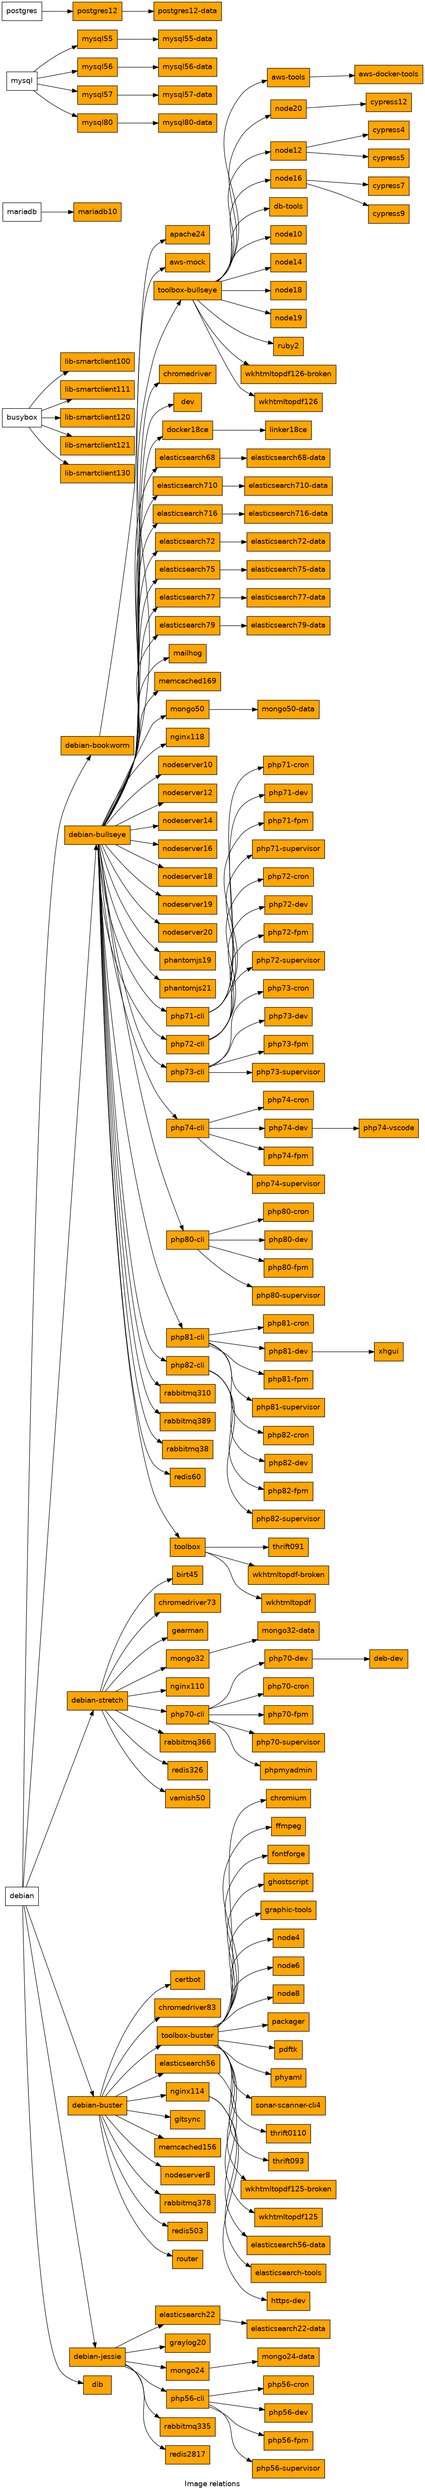
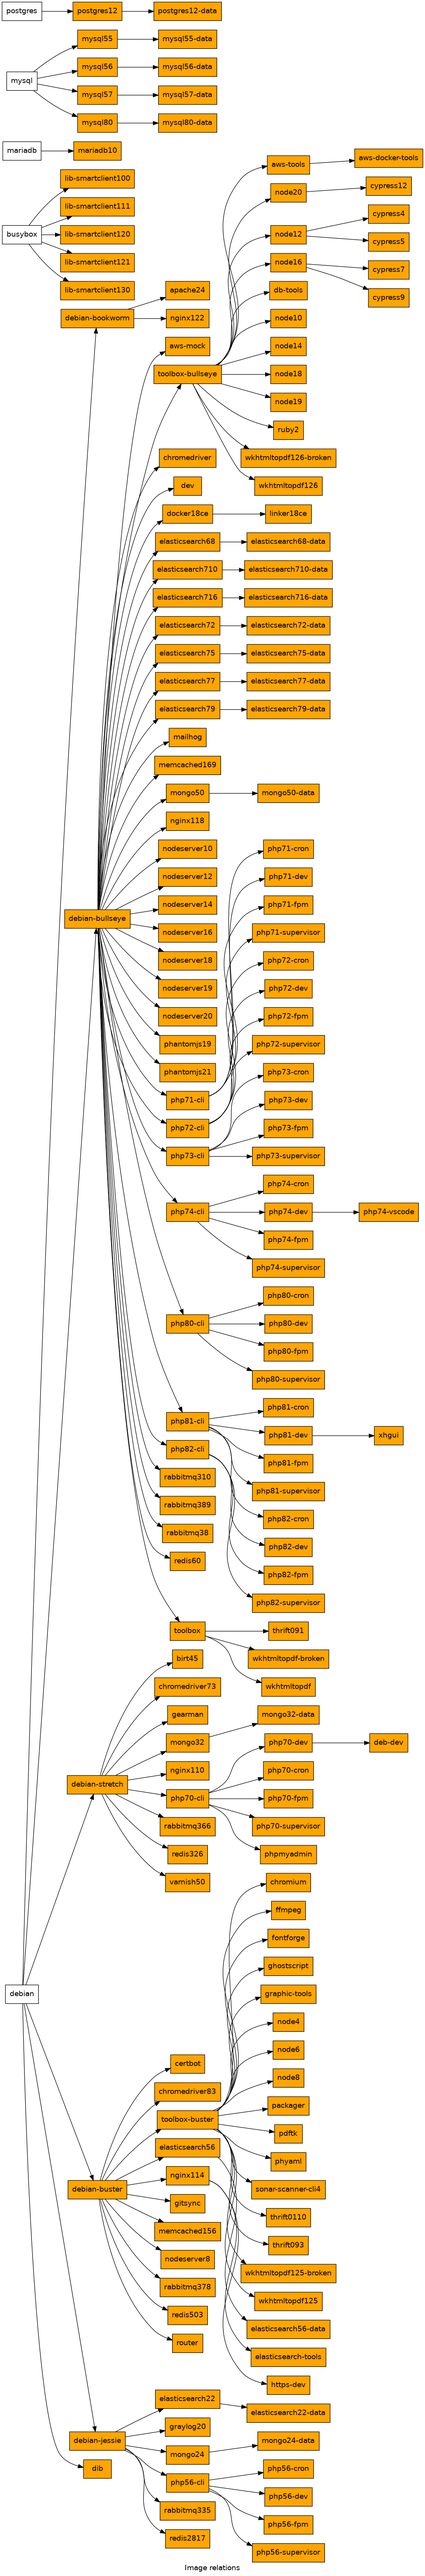
Added new image nginx122 on debian-bookworm

diff --git a/nginx122/README.md b/nginx122/README.md
@@ -1,0 +1,38 @@
+## Image
+Nginx 1.22
+
+## supported env vars
+
+example:
+    docker run -it --rm -e NFQ_DOCUMENT_ROOT='/home/project/src/web' [this_image]
+
+
+### NFQ_DOCUMENT_ROOT (optional)
+
+Sets nginx document root to specified path.
+
+default value: /var/www
+
+
+### SITES_ENABLED_ROOT (optional)
+
+Sets nginx sites-enabled to specified path.
+
+default value: /etc/nginx/sites-enabled/*
+
+
+### NFQ_RELOAD_PORT (optional)
+
+Port number that will reload configuration files after connection.
+Used for dynamic site configuration loading or ssl sertificates update
+
+default value: 1024
+
+
+### NFQ_FASTCGI_HOST (optional)
+
+Host to forward php files execution to. To disable fastcgi support provide
+either value 'false' or set an empty value to this variable.
+
+default value: fastcgi
+

diff --git a/VERSION_RECOMMENDATIONS.md b/VERSION_RECOMMENDATIONS.md
@@ -1,7 +1,7 @@
 | service | 1st\-choice | 2nd\-choice |
 |---------|-------------|-------------|
 | [apache](https://packages.debian.org/search?suite=all&section=all&arch=any&searchon=names&keywords=apache2) | apache24 | |
-| [nginx](https://packages.debian.org/search?keywords=nginx&searchon=names&suite=all&section=all) | nginx118 | nginx114 |
+| [nginx](https://packages.debian.org/search?keywords=nginx&searchon=names&suite=all&section=all) | nginx122 | nginx118 |
 | [mysql](https://en.wikipedia.org/wiki/MySQL#Release_history) | mysql80 | mysql57 |
 | [php](https://www.php.net/supported-versions.php) | php82 | php81 |
 | [node](https://nodejs.org/en/download/releases) | node20 | node19 |
